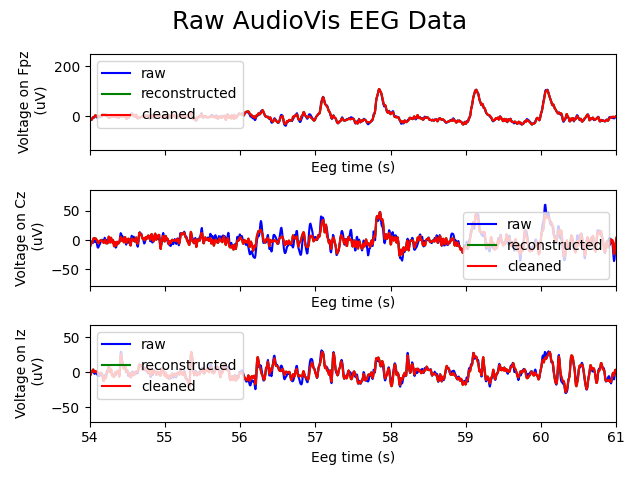
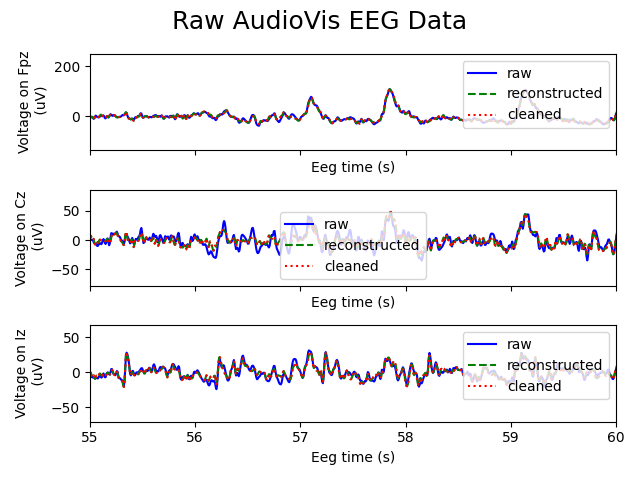
Part 5 finished and refactor

diff --git a/remove_audvis_blinks.py b/remove_audvis_blinks.py
@@ -16,10 +16,8 @@ for accuracy and ITRgenerates, and predictor histograms.)
 
 # Import Statements
 from pylab import *
-from scipy.signal import firwin, filtfilt, freqz, hilbert
 import matplotlib.pyplot as plt
 import numpy as np
-import import_ssvep_data as imp
 import plot_topo
 
 
@@ -49,7 +47,6 @@ def load_data(data_directory, channels_to_plot=None):
     
     # Load dictionary
     data_dict = np.load(data_file,allow_pickle=True).item()
-#    data_dict = np.load(data_file,allow_pickle=True)
 
     if channels_to_plot: 
         eeg=data_dict['eeg']
@@ -64,7 +61,7 @@ def load_data(data_directory, channels_to_plot=None):
         for channel_index,channel_name in enumerate(channels_to_plot):
             axs[channel_index].plot(eeg_time, np.squeeze(eeg[channels==channel_name]),label=channel_name)
             axs[channel_index].set_xlabel('Eeg time (s)')
-            axs[channel_index].set_ylabel(f'Voltage on {channel_name}\n ({units})')
+            axs[channel_index].set_ylabel(f'Voltage on {channel_name} ({units})\n')
             axs[channel_index].set_xlim(54,61)
     
         plt.tight_layout()  
@@ -83,14 +80,11 @@ def plot_components(mixing_matrix, channels, components_to_plot):
             my_component = mixing_matrix[:,component_value]
             img, cbar = plot_topo.plot_topo(channel_names=channels, channel_data=my_component,
                                 title=f'ICA component {component_index}', cbar_label='', montage_name='standard_1005')
-            # plt.savefig(f"plots/scalp_figures/{component_index}_scalp.png")
             
         if plot_count <= 10:
-            
             subplot(2, 5, component_index+1)
             my_component=mixing_matrix[:,component_value]
             plot_topo.plot_topo(channel_names=list(channels), channel_data=my_component, title=f'ICA component {component_index}',cbar_label='', montage_name='standard_1005')
-            # plt.savefig(f"plots/scalp_figures/{component_index}_scalp.png")
     
     plt.tight_layout()
     plt.savefig(f"plots/components_scalp.png")
@@ -140,21 +134,16 @@ def compare_reconstructions(eeg, reconstructed_eeg, cleaned_eeg, fs, channels, c
     
     plot_count = len(channels_to_plot)
     fig,axs = plt.subplots(nrows=plot_count, ncols=1, sharex=True)
-    fig.suptitle(' Raw AudioVis EEG Data ', fontsize=18)
+    fig.suptitle(' AudioVis EEG Data Reconstructed and Clean', fontsize=18)
 
     for channel_index, channel_name in enumerate(channels_to_plot):
         axs[channel_index].plot(eeg_time, np.squeeze(eeg[channels==channel_name]), label='raw', color='blue')
-        axs[channel_index].plot(eeg_time, np.squeeze(reconstructed_eeg[channels==channel_name]), label='reconstructed', color='green')
-        axs[channel_index].plot(eeg_time, np.squeeze(cleaned_eeg[channels==channel_name]), label='cleaned', color='red')
+        axs[channel_index].plot(eeg_time, np.squeeze(reconstructed_eeg[channels==channel_name]), label='reconstructed', color='green', linestyle='dashed')
+        axs[channel_index].plot(eeg_time, np.squeeze(cleaned_eeg[channels==channel_name]), label='cleaned', color='red', linestyle='dotted')
         axs[channel_index].set_xlabel('Eeg time (s)')
-        axs[channel_index].set_ylabel(f'Voltage on {channel_name}\n (uV)')
-        axs[channel_index].set_xlim(54,61)
+        axs[channel_index].set_ylabel(f'Voltage on {channel_name} (uV)\n')
+        axs[channel_index].set_xlim(55,60)
         axs[channel_index].legend()
         
     plt.tight_layout()
     plt.savefig(f"plots/comparison_eeg.png")
-
-        
-    
-    
-    
